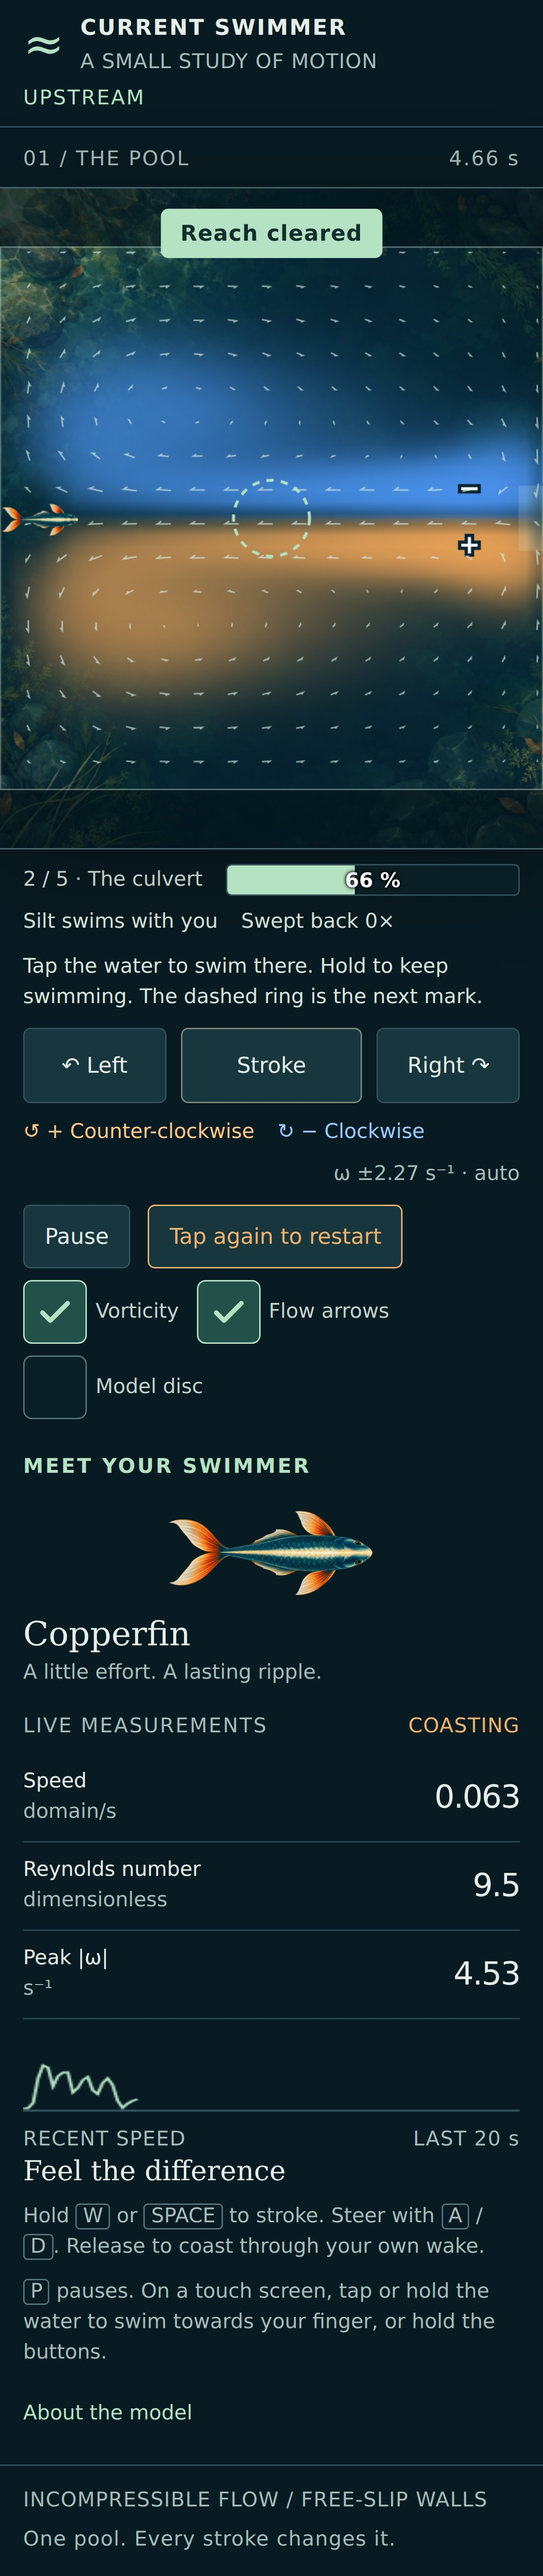
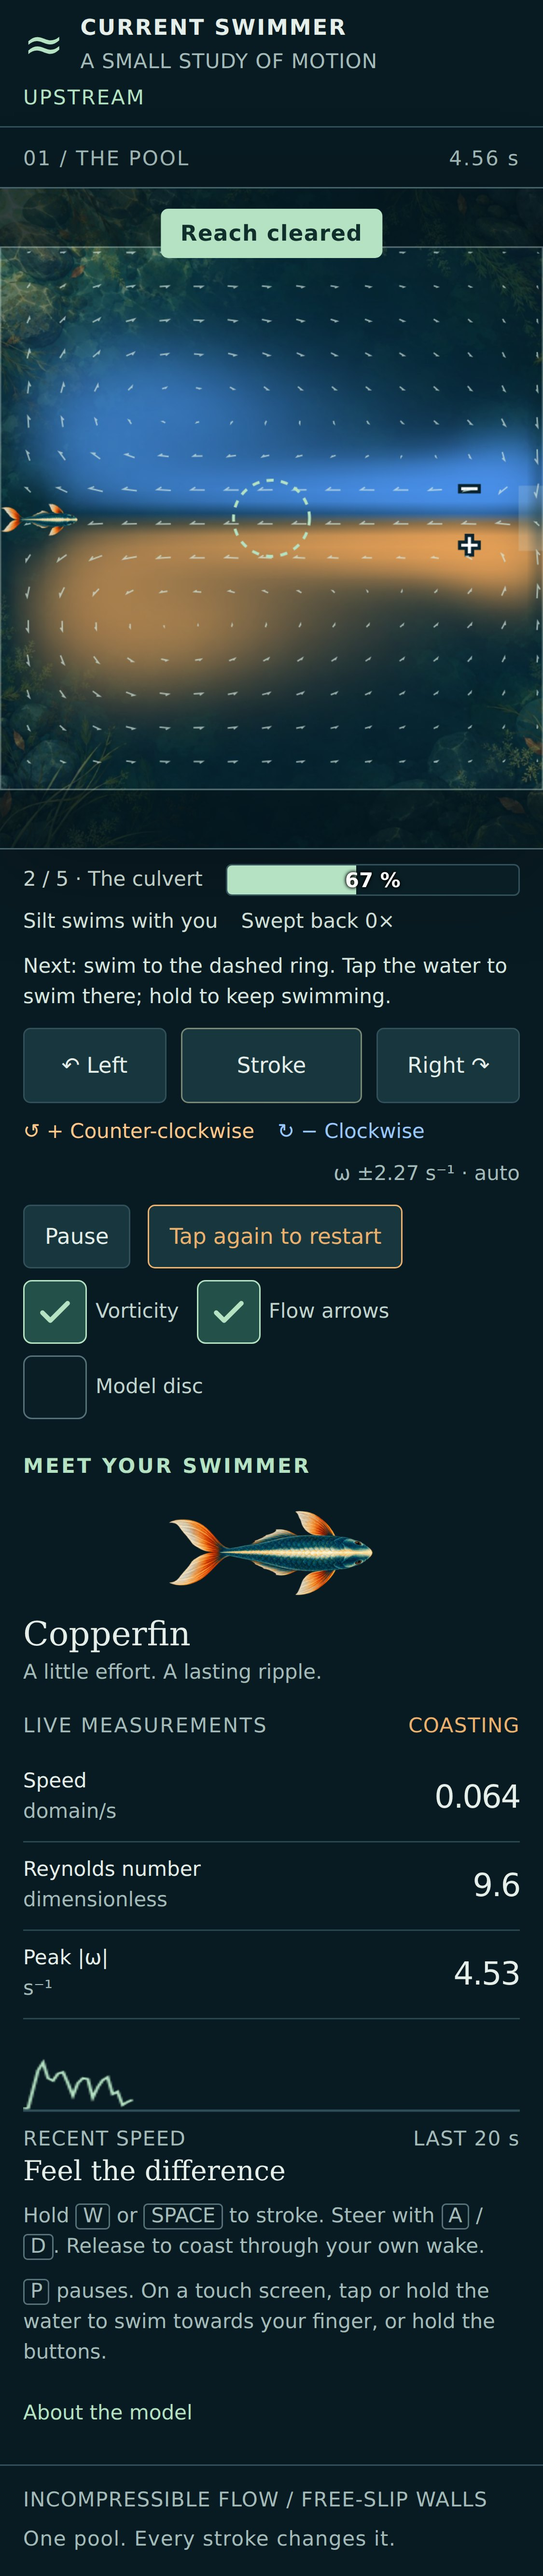
fix: say how to swim and where to go in the outlet scene and under the water

diff --git a/web/app.js b/web/app.js
@@ -5,7 +5,8 @@ const STORY = {
     ['', 'The board at the outlet lifts with a groan. The pond begins to leave.'],
     ['Silt', "The spring's up past the culvert. Cold water. Colder than your fins."],
     ['Silt', "Push when I push. Rest when I rest. Don't race me."],
-    ['Copperfin', 'I can keep up. Watch.']],
+    ['Copperfin', 'I can keep up. Watch.'],
+    ['', 'How to swim: tap the water and Copperfin swims there; hold to keep swimming. Reach the dashed ring to clear each of the five reaches.']],
     options: ['Follow Silt']},
   culvert: {lines: [
     ['', 'Below the road the stream splits in two.'],
@@ -285,6 +286,7 @@ const REACHES = ['Outlet pool', 'The culvert', 'Eddy stone to the drain', 'Warm 
     $('sweeps').textContent = `Swept back ${j[15]}×`;
     const hold = $('hold'), showHold = need > 0 && j[11] < 0;
     hold.hidden = !showHold;
+    $('hint').textContent = showHold ? 'Stay inside the orange ring until it fills. Tap inside the ring to drift there.' : 'Next: swim to the dashed ring. Tap the water to swim there; hold to keep swimming.';
     if (showHold) hold.textContent = `${j[10] === 1 ? 'Weir: hold in the ring till the lip fills' : 'Hold in the ring beside Silt'} · ${Math.ceil(need - held)} s`;
     const banner = $('banner');
     banner.hidden = !j[12] || j[27] === 1;
